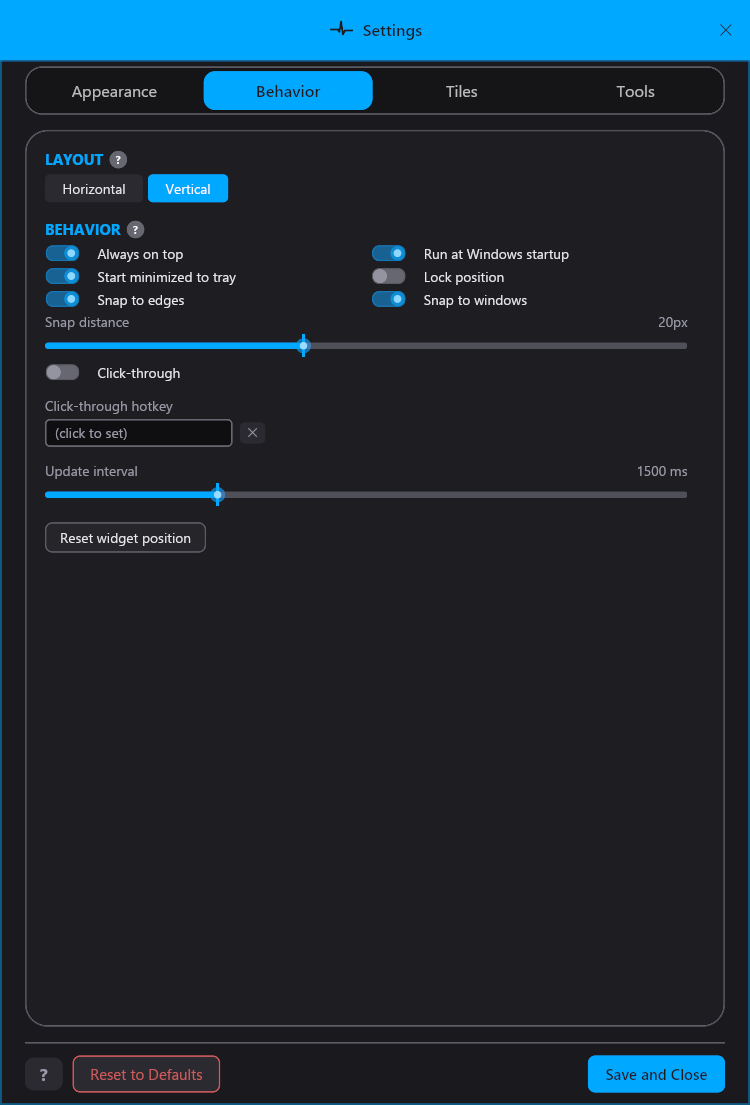
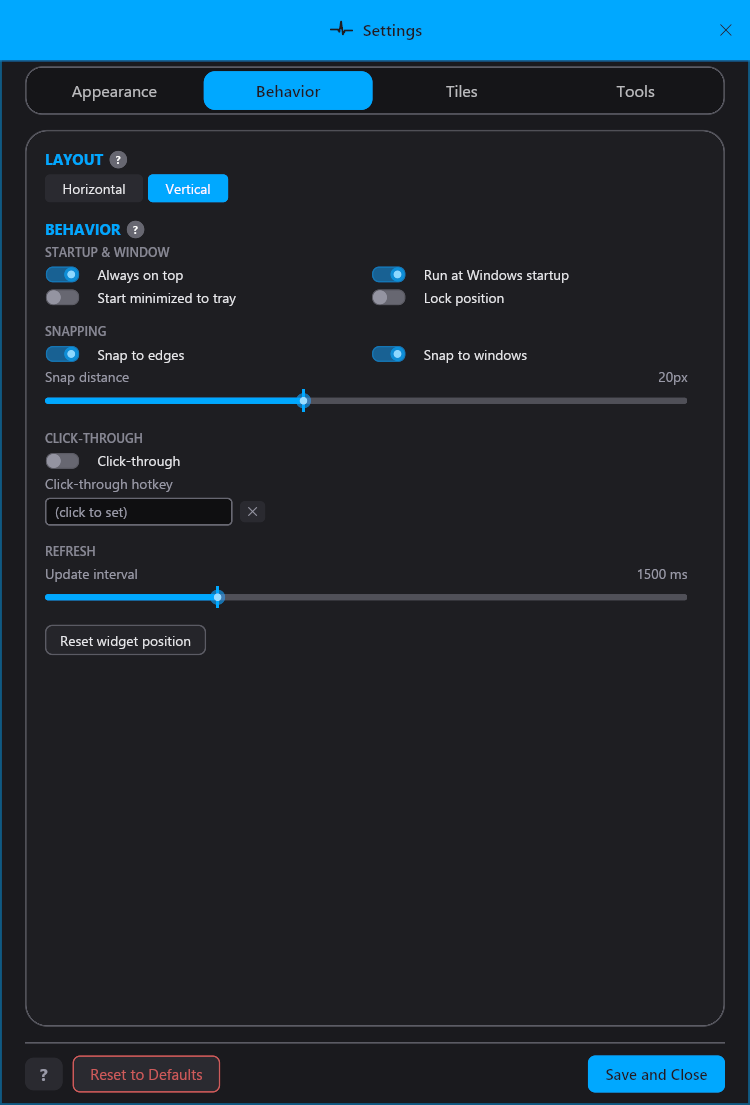
readme: refresh Behavior/Tiles/Tools screenshots for current layouts
The committed settings screenshots predated the Behavior grouped-subsections
and Tiles master-detail redesigns (and the independent Disk units toggle), so
they showed the old flat layouts. Recapture all three against v1.1.16:
- Behavior: Startup & Window / Snapping / Click-through / Refresh subsections
- Tiles: master-detail list + per-tile detail panel + Display card (Disk units)
- Tools: current v1.1.16 version + changelog

Also: --shot tiles now pre-opens a tile so the Tiles capture shows the detail
panel populated rather than the empty placeholder. Appearance and every popup
were verified unchanged.

Changed region(s): [[0.0613, 0.2154, 0.92, 0.5846], [0.4907, 0.2154, 0.7667, 0.2769]]

diff --git a/crates/flux-widget/src/main.rs b/crates/flux-widget/src/main.rs
@@ -1386,6 +1386,10 @@ impl App {
                         _ => (TAB_APPEARANCE, None),
                     };
                     app.settings_tab = tab;
+                    // For the Tiles README shot, pre-open a tile so the master-detail
+                    // panel below the list is shown populated (not the empty
+                    // "select a tile" placeholder).
+                    if other == "tiles" { app.tiles_section = Some("CPU".to_string()); }
                     if let Some(m) = msg { batch.push(Task::done(m)); }
                 }
             }